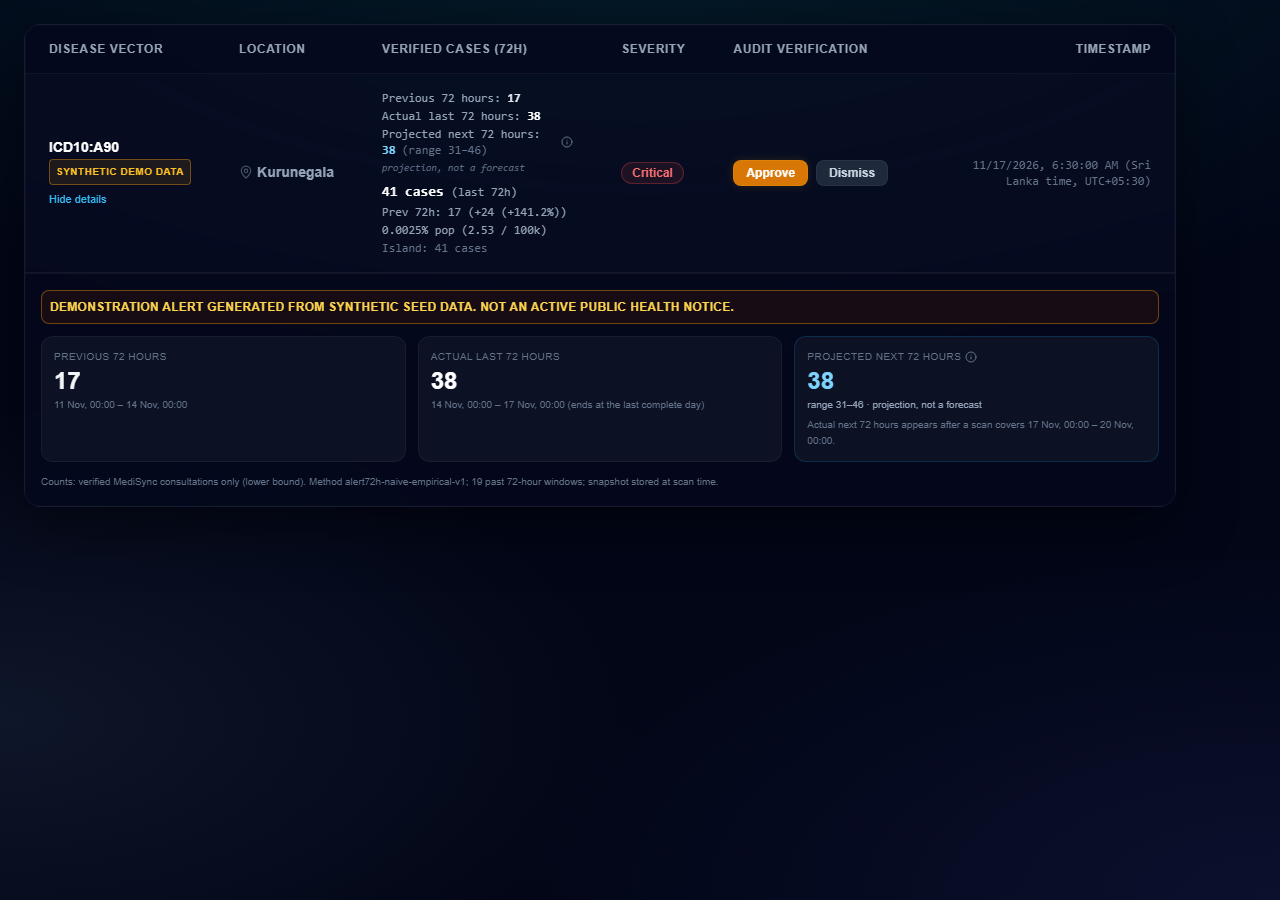
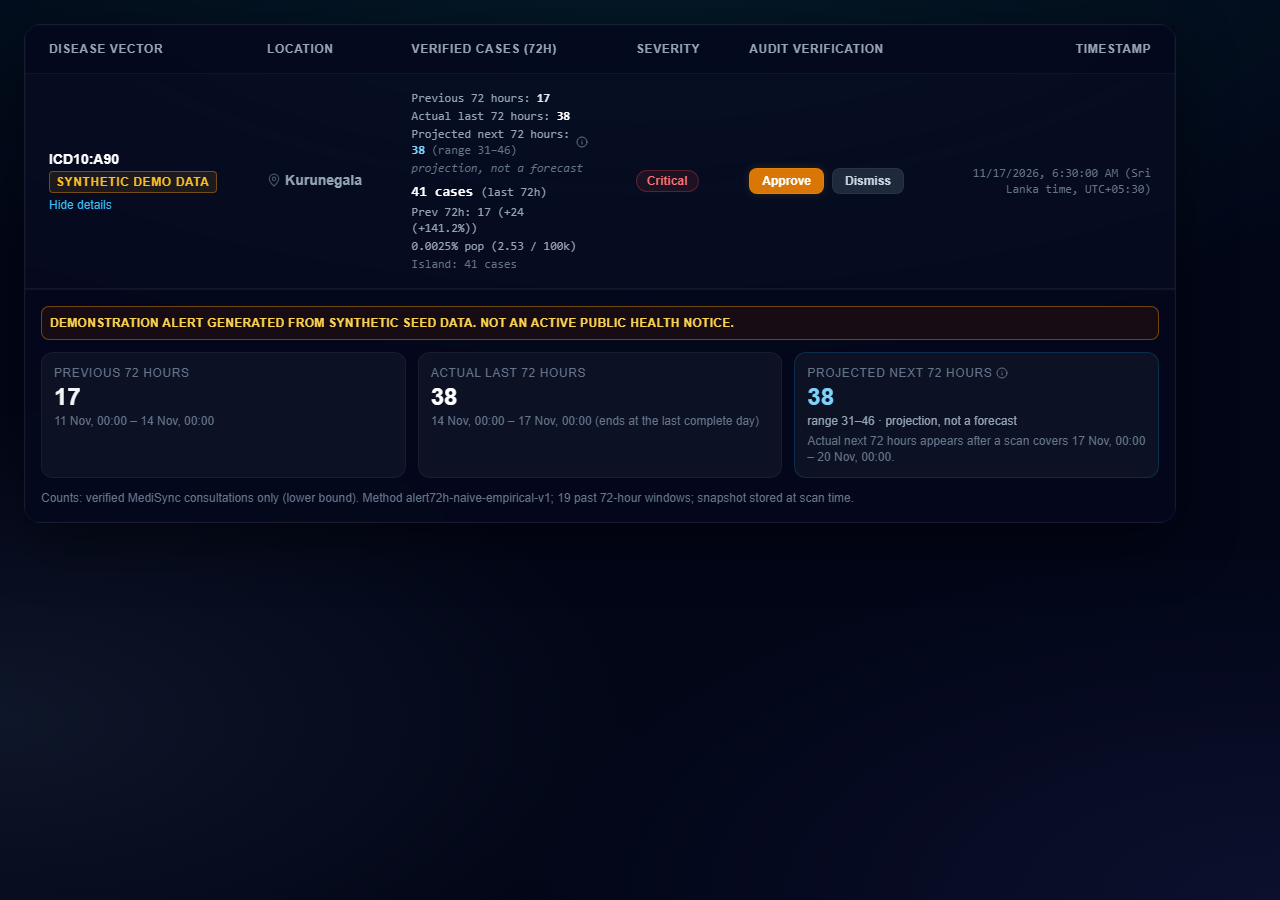
fix(alerts): keep existing demo email conventions and minimum font size
Gate run found 5 failures: the approval email for synthetic alerts must use
the existing outbreak transport, [DEMONSTRATION] subject prefix and red
data-demo-banner; new UI text used 10/11px sizes. Delivery now sends per
language group via sendOutbreakAlert (which also returns messageIds),
unavailable numbers show 'not available', UI uses text-xs. Screenshots and
captured mail regenerated.

diff --git a/docs/demo/alert72h/email_preview_en.html b/docs/demo/alert72h/email_preview_en.html
@@ -1,1 +1,1 @@
-<!doctype html><html><head><meta charset="utf-8"><meta name="viewport" content="width=device-width"></head><body style="margin:0;padding:0;background:#f1f5f9;font-family:Arial,sans-serif;"><div style="max-width:640px;margin:0 auto;background:#ffffff;padding:24px;"><div data-synthetic-banner="true" style="padding:12px;margin-bottom:16px;background:#fef3c7;border:2px solid #d97706;color:#92400e;font-weight:bold;">SYNTHETIC DEMONSTRATION ALERT. Not an active public health notice.</div><h1 style="font-size:20px;color:#0f172a;margin:0 0 12px;">[MediSync] Critical: Dengue alert for Kurunegala</h1><h2 style="font-size:16px;color:#0f172a;margin:20px 0 8px;">Alert summary</h2><table role="presentation" cellpadding="4" cellspacing="0" border="0" style="border-collapse:collapse;font-size:14px;"><tr><td style="color:#475569;padding-right:12px;vertical-align:top;">Disease</td><td style="color:#0f172a;font-weight:bold;">Dengue</td></tr><tr><td style="color:#475569;padding-right:12px;vertical-align:top;">ICD-10 code</td><td style="color:#0f172a;font-weight:bold;">A90</td></tr><tr><td style="color:#475569;padding-right:12px;vertical-align:top;">District</td><td style="color:#0f172a;font-weight:bold;">Kurunegala</td></tr><tr><td style="color:#475569;padding-right:12px;vertical-align:top;">Severity</td><td style="color:#0f172a;font-weight:bold;">Critical</td></tr><tr><td style="color:#475569;padding-right:12px;vertical-align:top;">Alert date</td><td style="color:#0f172a;font-weight:bold;">17 Nov 2026, 06:30 (Asia/Colombo)</td></tr><tr><td style="color:#475569;padding-right:12px;vertical-align:top;">Status</td><td style="color:#0f172a;font-weight:bold;">Active</td></tr><tr><td style="color:#475569;padding-right:12px;vertical-align:top;">Approved by</td><td style="color:#0f172a;font-weight:bold;">Administrator</td></tr><tr><td style="color:#475569;padding-right:12px;vertical-align:top;">Approved at</td><td style="color:#0f172a;font-weight:bold;">17 Nov 2026, 07:30 (Asia/Colombo)</td></tr></table><h2 style="font-size:16px;color:#0f172a;margin:20px 0 8px;">Numbers (computed from records)</h2><table role="presentation" cellpadding="4" cellspacing="0" border="0" style="border-collapse:collapse;font-size:14px;"><tr><td style="color:#475569;padding-right:12px;vertical-align:top;">Cases in the actual last 72 hours</td><td style="color:#0f172a;font-weight:bold;">38</td></tr><tr><td style="color:#475569;padding-right:12px;vertical-align:top;">Cases in the previous 72 hours</td><td style="color:#0f172a;font-weight:bold;">17</td></tr><tr><td style="color:#475569;padding-right:12px;vertical-align:top;">Change</td><td style="color:#0f172a;font-weight:bold;">+21 (+123.5%)</td></tr><tr><td style="color:#475569;padding-right:12px;vertical-align:top;">Projected next 72 hours</td><td style="color:#0f172a;font-weight:bold;">38 (range 31–46; projection, not a forecast)</td></tr><tr><td style="color:#475569;padding-right:12px;vertical-align:top;">Island-wide cases (same disease, last 72 hours)</td><td style="color:#0f172a;font-weight:bold;">138</td></tr><tr><td style="color:#475569;padding-right:12px;vertical-align:top;">Share of district population</td><td style="color:#0f172a;font-weight:bold;">0.00235%</td></tr><tr><td style="color:#475569;padding-right:12px;vertical-align:top;">Rate per 100,000 (district)</td><td style="color:#0f172a;font-weight:bold;">2.35</td></tr><tr><td style="color:#475569;padding-right:12px;vertical-align:top;">Daily counts, last 7 complete days</td><td style="color:#0f172a;font-weight:bold;">3, 2, 5, 10, 11, 13, 14</td></tr><tr><td style="color:#475569;padding-right:12px;vertical-align:top;">Data note</td><td style="color:#0f172a;font-weight:bold;">verified MediSync consultations only (lower bound)</td></tr></table><h2 style="font-size:16px;color:#0f172a;margin:20px 0 8px;">About this disease: Dengue</h2><h3 style="font-size:14px;color:#334155;margin:12px 0 4px;">What it is</h3><ul style="margin:0;padding-left:20px;font-size:14px;color:#1e293b;"><li>A viral infection caused by the dengue virus, carried mainly by Aedes aegypti mosquitoes.</li></ul><h3 style="font-size:14px;color:#334155;margin:12px 0 4px;">How it spreads</h3><ul style="margin:0;padding-left:20px;font-size:14px;color:#1e293b;"><li>Spread by the bite of an infected female mosquito; mosquitoes pick up the virus by biting infected people, including people without symptoms.</li><li>An infected mosquito can pass on the virus for the rest of its life.</li></ul><h3 style="font-size:14px;color:#334155;margin:12px 0 4px;">Common symptoms</h3><ul style="margin:0;padding-left:20px;font-size:14px;color:#1e293b;"><li>Many people have mild or no symptoms and recover in 1 to 2 weeks.</li><li>Symptoms usually start 4 to 10 days after infection and last 2 to 7 days: high fever, severe headache, pain behind the eyes, muscle and joint pain, nausea, vomiting, swollen glands and rash.</li></ul><h3 style="font-size:14px;color:#334155;margin:12px 0 4px;">Danger signs and when to seek urgent care</h3><ul style="margin:0;padding-left:20px;font-size:14px;color:#1e293b;"><li>Severe symptoms often come after the fever goes down: severe abdominal pain, persistent vomiting, rapid breathing, bleeding gums or nose, blood in vomit or stool, restlessness, extreme thirst, pale or cold skin, weakness.</li><li>Anyone with these signs should get medical care immediately.</li></ul><h3 style="font-size:14px;color:#334155;margin:12px 0 4px;">Prevention and what the public can do</h3><ul style="margin:0;padding-left:20px;font-size:14px;color:#1e293b;"><li>Avoid bites, especially in the daytime: clothing that covers the body, mosquito nets, window screens and repellents containing DEET, picaridin or IR3535.</li><li>Stop mosquito breeding: remove containers that hold standing water, dispose of waste properly, and cover, empty and clean water storage every week.</li></ul><h3 style="font-size:14px;color:#334155;margin:12px 0 4px;">Note for clinicians (testing and care)</h3><ul style="margin:0;padding-left:20px;font-size:14px;color:#1e293b;"><li>There is no specific treatment; care is supportive (rest, fluids, paracetamol). NSAIDs such as ibuprofen and aspirin are avoided because they can increase bleeding risk.</li><li>Laboratory confirmation uses nucleic acid amplification tests, ELISA or rapid tests; direct detection methods are most useful in the first week of illness.</li></ul><h3 style="font-size:14px;color:#334155;margin:12px 0 4px;">Sources</h3><ul style="margin:0;padding-left:20px;font-size:13px;"><li>World Health Organization, <a href="https://www.who.int/news-room/fact-sheets/detail/dengue-and-severe-dengue" style="color:#1d4ed8;">Dengue and severe dengue (fact sheet)</a> (accessed 2026-11-16)</li></ul><p style="font-size:12px;color:#64748b;">General public-health information only, not individual medical advice.</p><h2 style="font-size:16px;color:#0f172a;margin:20px 0 8px;">What this alert means and does not mean</h2><ul style="margin:0;padding-left:20px;font-size:14px;color:#1e293b;"><li>It is a statistical signal from counts of verified consultations recorded in MediSync.</li><li>It needs review by a person before any action is taken.</li><li>It is not a medical finding about any individual and it is not a confirmed outbreak.</li><li>No patient data is included in this message.</li></ul><h2 style="font-size:16px;color:#0f172a;margin:20px 0 8px;">Links</h2><ul style="margin:0;padding-left:20px;font-size:14px;"><li><a href="https://medisync.chamodtharusha.com.lk/public-health" style="color:#1d4ed8;">Public district map</a></li><li><a href="https://medisync.chamodtharusha.com.lk/admin/dashboard/outbreak" style="color:#1d4ed8;">Admin alert page</a></li><li>Health authority: <a href="https://www.health.gov.lk" style="color:#1d4ed8;">Ministry of Health, Sri Lanka</a></li></ul><p style="font-size:12px;color:#64748b;margin-top:20px;">To update your notification preferences or opt out, visit Account Preferences: <a href="https://medisync.chamodtharusha.com.lk/settings" style="color:#1d4ed8;">https://medisync.chamodtharusha.com.lk/settings</a></p></div><p data-medisync-sent-at="Asia/Colombo" style="font-size:12px;color:#64748b;">Sent: 11/16/2026, 7:52:08 PM (Sri Lanka time, UTC+05:30)</p></body></html>
+<!doctype html><html><head><meta charset="utf-8"><meta name="viewport" content="width=device-width"></head><body style="margin:0;padding:0;background:#f1f5f9;font-family:Arial,sans-serif;"><div style="max-width:640px;margin:0 auto;background:#ffffff;padding:24px;"><div data-demo-banner="true" style="padding:12px;margin-bottom:16px;background:#FFEBEE;border:2px solid #D32F2F;color:#B71C1C;font-weight:bold;">SYNTHETIC DEMONSTRATION ALERT. Not an active public health notice.</div><h1 style="font-size:20px;color:#0f172a;margin:0 0 12px;">[DEMONSTRATION] [MediSync] Critical: Dengue alert for Kurunegala</h1><h2 style="font-size:16px;color:#0f172a;margin:20px 0 8px;">Alert summary</h2><table role="presentation" cellpadding="4" cellspacing="0" border="0" style="border-collapse:collapse;font-size:14px;"><tr><td style="color:#475569;padding-right:12px;vertical-align:top;">Disease</td><td style="color:#0f172a;font-weight:bold;">Dengue</td></tr><tr><td style="color:#475569;padding-right:12px;vertical-align:top;">ICD-10 code</td><td style="color:#0f172a;font-weight:bold;">A90</td></tr><tr><td style="color:#475569;padding-right:12px;vertical-align:top;">District</td><td style="color:#0f172a;font-weight:bold;">Kurunegala</td></tr><tr><td style="color:#475569;padding-right:12px;vertical-align:top;">Severity</td><td style="color:#0f172a;font-weight:bold;">Critical</td></tr><tr><td style="color:#475569;padding-right:12px;vertical-align:top;">Alert date</td><td style="color:#0f172a;font-weight:bold;">17 Nov 2026, 06:30 (Asia/Colombo)</td></tr><tr><td style="color:#475569;padding-right:12px;vertical-align:top;">Status</td><td style="color:#0f172a;font-weight:bold;">Active</td></tr><tr><td style="color:#475569;padding-right:12px;vertical-align:top;">Approved by</td><td style="color:#0f172a;font-weight:bold;">Administrator</td></tr><tr><td style="color:#475569;padding-right:12px;vertical-align:top;">Approved at</td><td style="color:#0f172a;font-weight:bold;">17 Nov 2026, 07:30 (Asia/Colombo)</td></tr></table><h2 style="font-size:16px;color:#0f172a;margin:20px 0 8px;">Numbers (computed from records)</h2><table role="presentation" cellpadding="4" cellspacing="0" border="0" style="border-collapse:collapse;font-size:14px;"><tr><td style="color:#475569;padding-right:12px;vertical-align:top;">Cases in the actual last 72 hours</td><td style="color:#0f172a;font-weight:bold;">38</td></tr><tr><td style="color:#475569;padding-right:12px;vertical-align:top;">Cases in the previous 72 hours</td><td style="color:#0f172a;font-weight:bold;">17</td></tr><tr><td style="color:#475569;padding-right:12px;vertical-align:top;">Change</td><td style="color:#0f172a;font-weight:bold;">+21 (+123.5%)</td></tr><tr><td style="color:#475569;padding-right:12px;vertical-align:top;">Projected next 72 hours</td><td style="color:#0f172a;font-weight:bold;">38 (range 31–46; projection, not a forecast)</td></tr><tr><td style="color:#475569;padding-right:12px;vertical-align:top;">Island-wide cases (same disease, last 72 hours)</td><td style="color:#0f172a;font-weight:bold;">138</td></tr><tr><td style="color:#475569;padding-right:12px;vertical-align:top;">Share of district population</td><td style="color:#0f172a;font-weight:bold;">0.00235%</td></tr><tr><td style="color:#475569;padding-right:12px;vertical-align:top;">Rate per 100,000 (district)</td><td style="color:#0f172a;font-weight:bold;">2.35</td></tr><tr><td style="color:#475569;padding-right:12px;vertical-align:top;">Daily counts, last 7 complete days</td><td style="color:#0f172a;font-weight:bold;">3, 2, 5, 10, 11, 13, 14</td></tr><tr><td style="color:#475569;padding-right:12px;vertical-align:top;">Data note</td><td style="color:#0f172a;font-weight:bold;">verified MediSync consultations only (lower bound)</td></tr></table><h2 style="font-size:16px;color:#0f172a;margin:20px 0 8px;">About this disease: Dengue</h2><h3 style="font-size:14px;color:#334155;margin:12px 0 4px;">What it is</h3><ul style="margin:0;padding-left:20px;font-size:14px;color:#1e293b;"><li>A viral infection caused by the dengue virus, carried mainly by Aedes aegypti mosquitoes.</li></ul><h3 style="font-size:14px;color:#334155;margin:12px 0 4px;">How it spreads</h3><ul style="margin:0;padding-left:20px;font-size:14px;color:#1e293b;"><li>Spread by the bite of an infected female mosquito; mosquitoes pick up the virus by biting infected people, including people without symptoms.</li><li>An infected mosquito can pass on the virus for the rest of its life.</li></ul><h3 style="font-size:14px;color:#334155;margin:12px 0 4px;">Common symptoms</h3><ul style="margin:0;padding-left:20px;font-size:14px;color:#1e293b;"><li>Many people have mild or no symptoms and recover in 1 to 2 weeks.</li><li>Symptoms usually start 4 to 10 days after infection and last 2 to 7 days: high fever, severe headache, pain behind the eyes, muscle and joint pain, nausea, vomiting, swollen glands and rash.</li></ul><h3 style="font-size:14px;color:#334155;margin:12px 0 4px;">Danger signs and when to seek urgent care</h3><ul style="margin:0;padding-left:20px;font-size:14px;color:#1e293b;"><li>Severe symptoms often come after the fever goes down: severe abdominal pain, persistent vomiting, rapid breathing, bleeding gums or nose, blood in vomit or stool, restlessness, extreme thirst, pale or cold skin, weakness.</li><li>Anyone with these signs should get medical care immediately.</li></ul><h3 style="font-size:14px;color:#334155;margin:12px 0 4px;">Prevention and what the public can do</h3><ul style="margin:0;padding-left:20px;font-size:14px;color:#1e293b;"><li>Avoid bites, especially in the daytime: clothing that covers the body, mosquito nets, window screens and repellents containing DEET, picaridin or IR3535.</li><li>Stop mosquito breeding: remove containers that hold standing water, dispose of waste properly, and cover, empty and clean water storage every week.</li></ul><h3 style="font-size:14px;color:#334155;margin:12px 0 4px;">Note for clinicians (testing and care)</h3><ul style="margin:0;padding-left:20px;font-size:14px;color:#1e293b;"><li>There is no specific treatment; care is supportive (rest, fluids, paracetamol). NSAIDs such as ibuprofen and aspirin are avoided because they can increase bleeding risk.</li><li>Laboratory confirmation uses nucleic acid amplification tests, ELISA or rapid tests; direct detection methods are most useful in the first week of illness.</li></ul><h3 style="font-size:14px;color:#334155;margin:12px 0 4px;">Sources</h3><ul style="margin:0;padding-left:20px;font-size:13px;"><li>World Health Organization, <a href="https://www.who.int/news-room/fact-sheets/detail/dengue-and-severe-dengue" style="color:#1d4ed8;">Dengue and severe dengue (fact sheet)</a> (accessed 2026-11-16)</li></ul><p style="font-size:12px;color:#64748b;">General public-health information only, not individual medical advice.</p><h2 style="font-size:16px;color:#0f172a;margin:20px 0 8px;">What this alert means and does not mean</h2><ul style="margin:0;padding-left:20px;font-size:14px;color:#1e293b;"><li>It is a statistical signal from counts of verified consultations recorded in MediSync.</li><li>It needs review by a person before any action is taken.</li><li>It is not a medical finding about any individual and it is not a confirmed outbreak.</li><li>No patient data is included in this message.</li></ul><h2 style="font-size:16px;color:#0f172a;margin:20px 0 8px;">Links</h2><ul style="margin:0;padding-left:20px;font-size:14px;"><li><a href="https://medisync.chamodtharusha.com.lk/public-health" style="color:#1d4ed8;">Public district map</a></li><li><a href="https://medisync.chamodtharusha.com.lk/admin/dashboard/outbreak" style="color:#1d4ed8;">Admin alert page</a></li><li>Health authority: <a href="https://www.health.gov.lk" style="color:#1d4ed8;">Ministry of Health, Sri Lanka</a></li></ul><p style="font-size:12px;color:#64748b;margin-top:20px;">To update your notification preferences or opt out, visit Account Preferences: <a href="https://medisync.chamodtharusha.com.lk/settings" style="color:#1d4ed8;">https://medisync.chamodtharusha.com.lk/settings</a></p></div><p data-medisync-sent-at="Asia/Colombo" style="font-size:12px;color:#64748b;">Sent: 11/16/2026, 7:58:26 PM (Sri Lanka time, UTC+05:30)</p></body></html>

diff --git a/client/src/components/admin/AlertNumbers72h.jsx b/client/src/components/admin/AlertNumbers72h.jsx
@@ -18,7 +18,7 @@ export function SyntheticDemoBadge() {
     <span
       data-testid="synthetic-demo-badge"
       title={SYNTHETIC_ALERT_SENTENCE}
-      className="inline-block mt-0.5 px-1.5 py-0.5 rounded border border-amber-500/40 bg-amber-500/10 text-[10px] font-bold tracking-wider text-amber-400 whitespace-nowrap"
+      className="inline-block mt-0.5 px-1.5 py-0.5 rounded border border-amber-500/40 bg-amber-500/10 text-xs font-bold tracking-wider text-amber-400 whitespace-nowrap"
     >
       SYNTHETIC DEMO DATA
     </span>
@@ -33,7 +33,7 @@ export function ProjectionHelp({ view }) {
       <Info className="w-3 h-3 text-slate-500 cursor-help" aria-label="How the projection was made" tabIndex={0} />
       <span
         role="tooltip"
-        className="pointer-events-none absolute left-4 top-0 z-20 hidden w-64 rounded-lg border border-white/10 bg-slate-950 p-2 text-[11px] font-normal leading-snug text-slate-300 shadow-lg group-hover:block group-focus-within:block"
+        className="pointer-events-none absolute left-4 top-0 z-20 hidden w-64 rounded-lg border border-white/10 bg-slate-950 p-2 text-xs font-normal leading-snug text-slate-300 shadow-lg group-hover:block group-focus-within:block"
       >
         {view?.helpText || 'Projection method unavailable.'}
       </span>
@@ -52,7 +52,7 @@ export function AlertNumbers72h({ view }) {
         <span>Projected next 72 hours: <span className="text-sky-300 font-bold" data-testid="n-projected">{view.projected ?? 'N/A'}</span> <span className="text-slate-500" data-testid="n-range">({fmtRange(view)})</span></span>
         <ProjectionHelp view={view} />
       </div>
-      <div className="text-[10px] italic text-slate-500">{view.caveat || 'projection, not a forecast'}</div>
+      <div className="text-xs italic text-slate-500">{view.caveat || 'projection, not a forecast'}</div>
       {o && (
         <div className="text-xs text-emerald-300" data-testid="n-outcome">
           Actual next 72 hours: <span className="font-bold">{o.actualNext72h}</span> (error {o.absoluteError}{o.withinRange === null ? '' : o.withinRange ? ', inside range' : ', outside range'})
@@ -77,30 +77,30 @@ export function AlertDetail72h({ alert }) {
       {v ? (
         <div className="grid grid-cols-1 sm:grid-cols-3 gap-3">
           <div className="p-3 rounded-xl bg-slate-900/70 border border-white/5">
-            <div className="text-[10px] uppercase tracking-wider text-slate-500">Previous 72 hours</div>
+            <div className="text-xs uppercase tracking-wider text-slate-500">Previous 72 hours</div>
             <div className="text-2xl font-bold text-slate-100" data-testid="d-previous">{v.previous72h}</div>
-            <div className="text-[10px] text-slate-500">{w ? `${fmtDate(w.previousStart)} – ${fmtDate(w.previousEnd)}` : ''}</div>
+            <div className="text-xs text-slate-500">{w ? `${fmtDate(w.previousStart)} – ${fmtDate(w.previousEnd)}` : ''}</div>
           </div>
           <div className="p-3 rounded-xl bg-slate-900/70 border border-white/5">
-            <div className="text-[10px] uppercase tracking-wider text-slate-500">Actual last 72 hours</div>
+            <div className="text-xs uppercase tracking-wider text-slate-500">Actual last 72 hours</div>
             <div className="text-2xl font-bold text-white" data-testid="d-actual">{v.actual72h}</div>
-            <div className="text-[10px] text-slate-500">{w ? `${fmtDate(w.actualStart)} – ${fmtDate(w.actualEnd)} (ends at the last complete day)` : ''}</div>
+            <div className="text-xs text-slate-500">{w ? `${fmtDate(w.actualStart)} – ${fmtDate(w.actualEnd)} (ends at the last complete day)` : ''}</div>
           </div>
           <div className="p-3 rounded-xl bg-slate-900/70 border border-sky-500/20">
-            <div className="text-[10px] uppercase tracking-wider text-slate-500 flex items-center gap-1">Projected next 72 hours <ProjectionHelp view={v} /></div>
+            <div className="text-xs uppercase tracking-wider text-slate-500 flex items-center gap-1">Projected next 72 hours <ProjectionHelp view={v} /></div>
             <div className="text-2xl font-bold text-sky-300" data-testid="d-projected">{v.projected}</div>
-            <div className="text-[10px] text-slate-400">{fmtRange(v)} · {v.caveat}</div>
+            <div className="text-xs text-slate-400">{fmtRange(v)} · {v.caveat}</div>
             {v.outcome ? (
-              <div className="mt-1 text-[11px] text-emerald-300" data-testid="d-outcome">Actual next 72 hours: <b>{v.outcome.actualNext72h}</b> · absolute error {v.outcome.absoluteError}</div>
+              <div className="mt-1 text-xs text-emerald-300" data-testid="d-outcome">Actual next 72 hours: <b>{v.outcome.actualNext72h}</b> · absolute error {v.outcome.absoluteError}</div>
             ) : (
-              <div className="mt-1 text-[10px] text-slate-500">Actual next 72 hours appears after a scan covers {w ? `${fmtDate(w.nextStart)} – ${fmtDate(w.nextEnd)}` : 'that period'}.</div>
+              <div className="mt-1 text-xs text-slate-500">Actual next 72 hours appears after a scan covers {w ? `${fmtDate(w.nextStart)} – ${fmtDate(w.nextEnd)}` : 'that period'}.</div>
             )}
           </div>
         </div>
       ) : (
         <div className="text-slate-500">72-hour numbers are not available for this alert.</div>
       )}
-      <div className="text-[10px] text-slate-500">
+      <div className="text-xs text-slate-500">
         Counts: {v?.dataNote || 'verified MediSync consultations only (lower bound)'}. Method {v?.methodVersion || 'n/a'}; {v?.historyWindows ?? 0} past 72-hour windows; snapshot {v?.stored ? 'stored at scan time' : 'computed live (alert predates snapshots)'}.
       </div>
     </div>

diff --git a/server/tests/alert72hEmail.test.js b/server/tests/alert72hEmail.test.js
@@ -17,7 +17,7 @@ describe('detailed email content', () => {
   test.each(['en', 'si', 'ta'])('renders in %s with every number from the fixture and no patient field', language => {
     const m = buildDetailedOutbreakEmail(ALERT, NUMBERS, { language, isSynthetic: true, approverRole: 'Administrator', frontendUrl: 'https://example.test' });
     expect(m.language).toBe(language);
-    expect(m.subject).toMatch(/^\[MediSync\] Critical: /);
+    expect(m.subject).toMatch(/^\[DEMONSTRATION\] \[MediSync\] Critical: /);
     for (const body of [m.text, htmlText(m.html)]) {
       for (const v of ['38', '17', '+21 (+123.5%)', '38 (', '31–46', '138', '0.00233%', '2.33', '3, 2, 5, 10, 11, 13, 14', 'verified MediSync consultations only (lower bound)', 'A90', 'Kurunegala'])
         expect(body).toContain(v);
@@ -29,7 +29,9 @@ describe('detailed email content', () => {
 
   test('English subject format and sections', () => {
     const m = buildDetailedOutbreakEmail(ALERT, NUMBERS, { language: 'en', isSynthetic: true });
-    expect(m.subject).toBe('[MediSync] Critical: Dengue alert for Kurunegala');
+    expect(m.subject).toBe('[DEMONSTRATION] [MediSync] Critical: Dengue alert for Kurunegala');
+    expect(m.html).toContain('data-demo-banner="true"');
+    expect(buildDetailedOutbreakEmail({ ...ALERT, syntheticSeedBatch: undefined, isSynthetic: false }, NUMBERS, { language: 'en', isSynthetic: false }).subject).toBe('[MediSync] Critical: Dengue alert for Kurunegala');
     for (const h of ['Alert summary', 'What it is', 'How it spreads', 'Common symptoms', 'Danger signs and when to seek urgent care', 'Prevention and what the public can do',
       'Note for clinicians', 'What this alert means and does not mean', 'It needs review by a person', 'not a confirmed outbreak', 'No patient data is included',
       'projection, not a forecast', '/public-health', '/admin/dashboard/outbreak', 'https://www.health.gov.lk', 'opt out', 'https://www.who.int/news-room/fact-sheets/detail/dengue-and-severe-dengue', 'accessed 2026-11-16'])
@@ -59,6 +61,12 @@ describe('detailed email content', () => {
     expect(escapeHtml(`<a href="x">'&`)).toBe('&lt;a href=&quot;x&quot;&gt;&#39;&amp;');
   });
 
+  test('numbers that cannot be loaded are shown as not available, never invented', () => {
+    const m = buildDetailedOutbreakEmail(ALERT, {}, { language: 'en', isSynthetic: true });
+    expect(m.text).toContain('Numbers (computed from records): not available');
+    expect(m.text).not.toMatch(/Cases in the actual last 72 hours/);
+  });
+
   test('insufficient history shows no range', () => {
     const m = buildDetailedOutbreakEmail(ALERT, { ...NUMBERS, enoughHistory: false, low: null, high: null }, { language: 'en', isSynthetic: true });
     expect(m.text).toContain('not enough history for a range');
@@ -68,7 +76,10 @@ describe('detailed email content', () => {
 function fakeMail({ sentToday = 0 } = {}) {
   const sent = [];
   return { sent, getDailyDispatchedEmailCount: async () => sentToday,
-    sendMail: async o => { sent.push(o); return { providerAccepted: true, messageId: `m-${sent.length}` }; } };
+    sendOutbreakAlert: async (emails, payload) => {
+      for (const to of emails) sent.push({ to, ...payload });
+      return { success: true, acceptedCount: emails.length, totalCount: emails.length, messageIds: emails.map((_, i) => `m-${sent.length - emails.length + i + 1}`) };
+    } };
 }
 const base = { numbers: NUMBERS, languages: new Map(), approverRole: 'Administrator' };
 
@@ -120,7 +131,7 @@ describe('detailed email delivery controls', () => {
     expect(r.sentCount).toBe(3);
     expect(Object.keys(r.subjects).sort()).toEqual(['en', 'si', 'ta']);
     const logged = logSpy.mock.calls.map(c => c.join(' ')).join('\n');
-    expect(logged).toContain('messageId=m-1');
+    expect(logged).toContain('messageIds=m-1');
     expect(logged).not.toMatch(/@example\.test|Danger signs|<html/);
   });
 });

diff --git a/server/src/services/outbreakDetailedDelivery.js b/server/src/services/outbreakDetailedDelivery.js
@@ -84,19 +84,24 @@ async function sendDetailedOutbreakEmail(recipients = [], alert = {}, options = 
   const room = Math.max(0, cap - used);
   if (room < allowed.length) { result.skippedCount += allowed.length - room; allowed = allowed.slice(0, room); if (!allowed.length) { result.blockedReason = 'DAILY_EMAIL_CAP_REACHED'; return result; } }
 
-  const numbers = options.numbers || await numbersForAlert(alert, { cases: options.cases });
+  // Numbers come from records; if they cannot be loaded the email says "not available" (never invented values).
+  let numbers = options.numbers || null;
+  if (!numbers) { try { numbers = await numbersForAlert(alert, { cases: options.cases }); } catch (_) { numbers = {}; } }
   const languages = options.languages || await resolveLanguages(allowed, { db: options.db });
-  const from = typeof emailService.getResendFromAddress === 'function' ? emailService.getResendFromAddress() : undefined;
-  for (const to of allowed) {
-    const language = languages.get(to) || 'en';
+  // One send per language group through the existing outbreak transport (emailService.sendOutbreakAlert).
+  const groups = new Map();
+  for (const to of allowed) { const lang = languages.get(to) || 'en'; if (!groups.has(lang)) groups.set(lang, []); groups.get(lang).push(to); }
+  for (const [language, emails] of groups) {
     const mail = buildDetailedOutbreakEmail(alert, numbers, { language, isSynthetic: isDemo, isTest: options.isTest, approverRole: options.approverRole, frontendUrl: options.frontendUrl });
     result.subjects[language] = mail.subject;
     try {
-      const res = await emailService.sendMail({ ...(from ? { from } : {}), allowFallback: false, to, subject: mail.subject, html: mail.html, text: mail.text });
-      if (res && res.providerAccepted) result.sentCount++; else { result.failedCount++; result.errors.push(res?.errorCode || 'DELIVERY_REJECTED'); }
-      console.log(`[OUTBREAK EMAIL] subject="${mail.subject}" messageId=${res?.messageId || 'none'} accepted=${Boolean(res?.providerAccepted)}`);
+      const res = await emailService.sendOutbreakAlert(emails, { subject: mail.subject, html: mail.html, text: mail.text });
+      const accepted = res && res.success !== false ? (res.acceptedCount !== undefined ? res.acceptedCount : emails.length) : 0;
+      result.sentCount += accepted; result.failedCount += emails.length - accepted;
+      if (!accepted) result.errors.push(res?.errorCode || 'DELIVERY_REJECTED');
+      console.log(`[OUTBREAK EMAIL] subject="${mail.subject}" messageIds=${(res?.messageIds || []).filter(Boolean).join(',') || 'none'} accepted=${accepted}/${emails.length}`);
     } catch (err) {
-      result.failedCount++; result.errors.push('TRANSPORT_ERROR');
+      result.failedCount += emails.length; result.errors.push('TRANSPORT_ERROR');
     }
   }
   result.subject = Object.values(result.subjects)[0];

diff --git a/server/src/services/outbreakDetailedEmail.js b/server/src/services/outbreakDetailedEmail.js
@@ -134,9 +134,10 @@ function buildDetailedOutbreakEmail(alert = {}, numbers = {}, options = {}) {
   const frontend = safeUrl(options.frontendUrl || process.env.FRONTEND_URL) || 'https://medisync.chamodtharusha.com.lk';
   const links = { publicMap: `${frontend}/public-health`, adminPage: `${frontend}/admin/dashboard/outbreak`, settings: `${frontend}/settings` };
   const isSynthetic = Boolean(options.isSynthetic);
-  const subject = `${options.isTest ? '[TEST] ' : ''}[MediSync] ${L.alertFor(severity, name, district)}`;
-  const n = numbers;
-  const range = n.enoughHistory ? `${L.range} ${n.low}–${n.high}` : L.noHistory;
+  // [TEST] for the administrator test email; [DEMONSTRATION] for synthetic alerts (existing subject convention).
+  const subject = `${options.isTest ? '[TEST] ' : isSynthetic ? '[DEMONSTRATION] ' : ''}[MediSync] ${L.alertFor(severity, name, district)}`;
+  const n = { available: numbers && Number.isFinite(numbers.actual72h), ...numbers };
+  const range = n.available && n.enoughHistory ? `${L.range} ${n.low}–${n.high}` : L.noHistory;
 
   const summaryRows = [
     [L.disease, name], [L.icd, icd], [L.district, district], [L.severity, severity],
@@ -144,7 +145,8 @@ function buildDetailedOutbreakEmail(alert = {}, numbers = {}, options = {}) {
     [L.approvedBy, alert.approvedAt ? (options.approverRole || 'Administrator') : L.notApproved],
     [L.approvedAt, fmtDate(alert.approvedAt) || L.notApproved],
   ];
-  const numberRows = [
+  const na = 'not available';
+  const numberRows = !n.available ? [[L.numbers, na]] : [
     [L.actual, String(n.actual72h)], [L.previous, String(n.previous72h)],
     [L.change, `${n.change >= 0 ? '+' : ''}${n.change} (${fmtPct(n.percentChange)})`],
     [L.projected, `${n.projected} (${range}; ${L.caveat})`],
@@ -180,7 +182,7 @@ function buildDetailedOutbreakEmail(alert = {}, numbers = {}, options = {}) {
     '<!doctype html><html><head><meta charset="utf-8"><meta name="viewport" content="width=device-width"></head>',
     '<body style="margin:0;padding:0;background:#f1f5f9;font-family:Arial,sans-serif;">',
     '<div style="max-width:640px;margin:0 auto;background:#ffffff;padding:24px;">',
-    isSynthetic ? `<div data-synthetic-banner="true" style="padding:12px;margin-bottom:16px;background:#fef3c7;border:2px solid #d97706;color:#92400e;font-weight:bold;">${e(L.banner)}</div>` : '',
+    isSynthetic ? `<div data-demo-banner="true" style="padding:12px;margin-bottom:16px;background:#FFEBEE;border:2px solid #D32F2F;color:#B71C1C;font-weight:bold;">${e(L.banner)}</div>` : '',
     `<h1 style="font-size:20px;color:#0f172a;margin:0 0 12px;">${e(subject)}</h1>`,
     h2(L.summary), table(summaryRows),
     h2(L.numbers), table(numberRows),

diff --git a/client/src/pages/admin/OutbreakMonitor.jsx b/client/src/pages/admin/OutbreakMonitor.jsx
@@ -1035,7 +1035,7 @@ const OutbreakMonitor = () => {
                               type="button"
                               onClick={() => setExpandedAlertId(prev => (prev === alert._id ? null : alert._id))}
                               aria-expanded={expandedAlertId === alert._id}
-                              className="block mt-1 text-[11px] text-sky-400 hover:text-sky-300 underline-offset-2 hover:underline"
+                              className="block mt-1 text-xs text-sky-400 hover:text-sky-300 underline-offset-2 hover:underline"
                             >
                               {expandedAlertId === alert._id ? 'Hide details' : 'Details'}
                             </button>

diff --git a/server/tests/alert72hScanMemory.test.js b/server/tests/alert72hScanMemory.test.js
@@ -39,7 +39,7 @@ jest.setTimeout(180000);
     expect(out.approval.emailDelivery).toMatchObject({ attempted: true, sentCount: 1, isDemonstration: true });
     expect(out.approval.capturedMails).toHaveLength(1);
     expect(out.approval.capturedMails[0].to).toEqual(['viva.admin@qa.medisync.local']);
-    expect(out.approval.capturedMails[0].subject).toBe('[MediSync] Critical: Dengue alert for Kurunegala');
+    expect(out.approval.capturedMails[0].subject).toBe('[DEMONSTRATION] [MediSync] Critical: Dengue alert for Kurunegala');
     expect(out.approval.capturedMails[0].textHead[1]).toBe('SYNTHETIC DEMONSTRATION ALERT. Not an active public health notice.');
   });
 });

diff --git a/server/src/utils/emailService.js b/server/src/utils/emailService.js
@@ -1349,6 +1349,7 @@ exports.sendOutbreakAlert = async (emailList, districtOrPayload, message, zScore
     errorCode: acceptedCount > 0 ? null : (results[0]?.errorCode || 'bulk_fallback_prohibited'),
     acceptedCount,
     totalCount: recipients.length,
+    messageIds: results.map((r) => r.messageId || null),
   };
 };
 

diff --git a/docs/demo/ALERT_UPGRADE_RUNBOOK.md b/docs/demo/ALERT_UPGRADE_RUNBOOK.md
@@ -63,10 +63,10 @@ The controls that already exist stay in force:
    - the numbers match the screen;
    - the fact sheet shows sources with "accessed 2026-11-16";
    - the opt-out line is present.
-4. Only then choose **District** scope and approve.
+4. Only then choose **District** scope and approve. For a synthetic alert the subject starts with `[DEMONSTRATION] [MediSync] ...`, which is the existing demonstration convention.
    - For a synthetic alert, the recipients are the allowlist only.
    - Leave the scope at **None** if you want no email at all.
-5. The server log shows only `[OUTBREAK EMAIL] subject="..." messageId=...`. It never shows the body
+5. The server log shows only `[OUTBREAK EMAIL] subject="..." messageIds=... accepted=n/m`. It never shows the body
    or the addresses.
 
 ## 3. What to say at the viva
